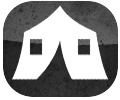
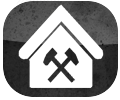
Added new buildings abilities

Changed region(s): [[0.1, 0.03, 0.9, 0.9], [0.425, 0.12, 0.45, 0.15], [0.4, 0.15, 0.425, 0.18]]

diff --git a/March Death/Assets/Scripts/Utils/EntityAbilitiesController.cs b/March Death/Assets/Scripts/Utils/EntityAbilitiesController.cs
@@ -103,8 +103,8 @@ public class EntityAbilitiesController : MonoBehaviour
                     Debug.Log("* " + abilityObj);
                     abilityObj.enable();
                 });
-                image.sprite = CreateSprite(ability, image.rectTransform.sizeDelta);
-                buttonComponent.targetGraphic = image;
+                //image.sprite = CreateSprite(ability, image.rectTransform.sizeDelta);
+                //buttonComponent.targetGraphic = image;
                 buttonComponent.onClick.AddListener(() => actionMethod());
                 image.enabled = true;
                 eventTrigger.enabled = true;

diff --git a/March Death/Assets/Scripts/Storage/JSON/BuildingInfo.cs b/March Death/Assets/Scripts/Storage/JSON/BuildingInfo.cs
@@ -13,7 +13,7 @@ namespace Storage
     /// Should something be added, append it as the last element, otherwise
     /// previously assigned gameobjects might get wrong types
     /// </remarks>
-    public enum BuildingTypes { STRONGHOLD, FARM, MINE, SAWMILL, ARCHERY, BARRACK, STABLE, WALL, WALLCORNER, WALLGATE, WATCHTOWER, WORKSHOP, ARTILLERY, GRYPHON, ENT , SPECIAL};
+    public enum BuildingTypes { STRONGHOLD, FARM, MINE, SAWMILL, ARCHERY, BARRACK, STABLE, WALL, WALLCORNER, WALLGATE, WATCHTOWER, WORKSHOP, ARTILLERY, GRYPHON, ENT, SPECIAL};
 
     public class BuildingInfo : EntityInfo
     {

diff --git a/March Death/Assets/Scripts/Storage/JSON/UnitInfo.cs b/March Death/Assets/Scripts/Storage/JSON/UnitInfo.cs
@@ -14,7 +14,7 @@ namespace Storage
     /// previously assigned gameobjects might get wrong types
     /// </remarks>
     /// </summary>
-    public enum UnitTypes { CIVIL, HERO, LIGHT, HEAVY, THROWN, CAVALRY, MACHINE, SPECIAL, LIGHTHOUSE_REVEALER };
+    public enum UnitTypes { CIVIL, HERO, LIGHT, HEAVY, THROWN, CAVALRY, MACHINE, SPECIAL, LIGHTHOUSE_REVEALER};
 
     public class UnitInfo : EntityInfo
     {
